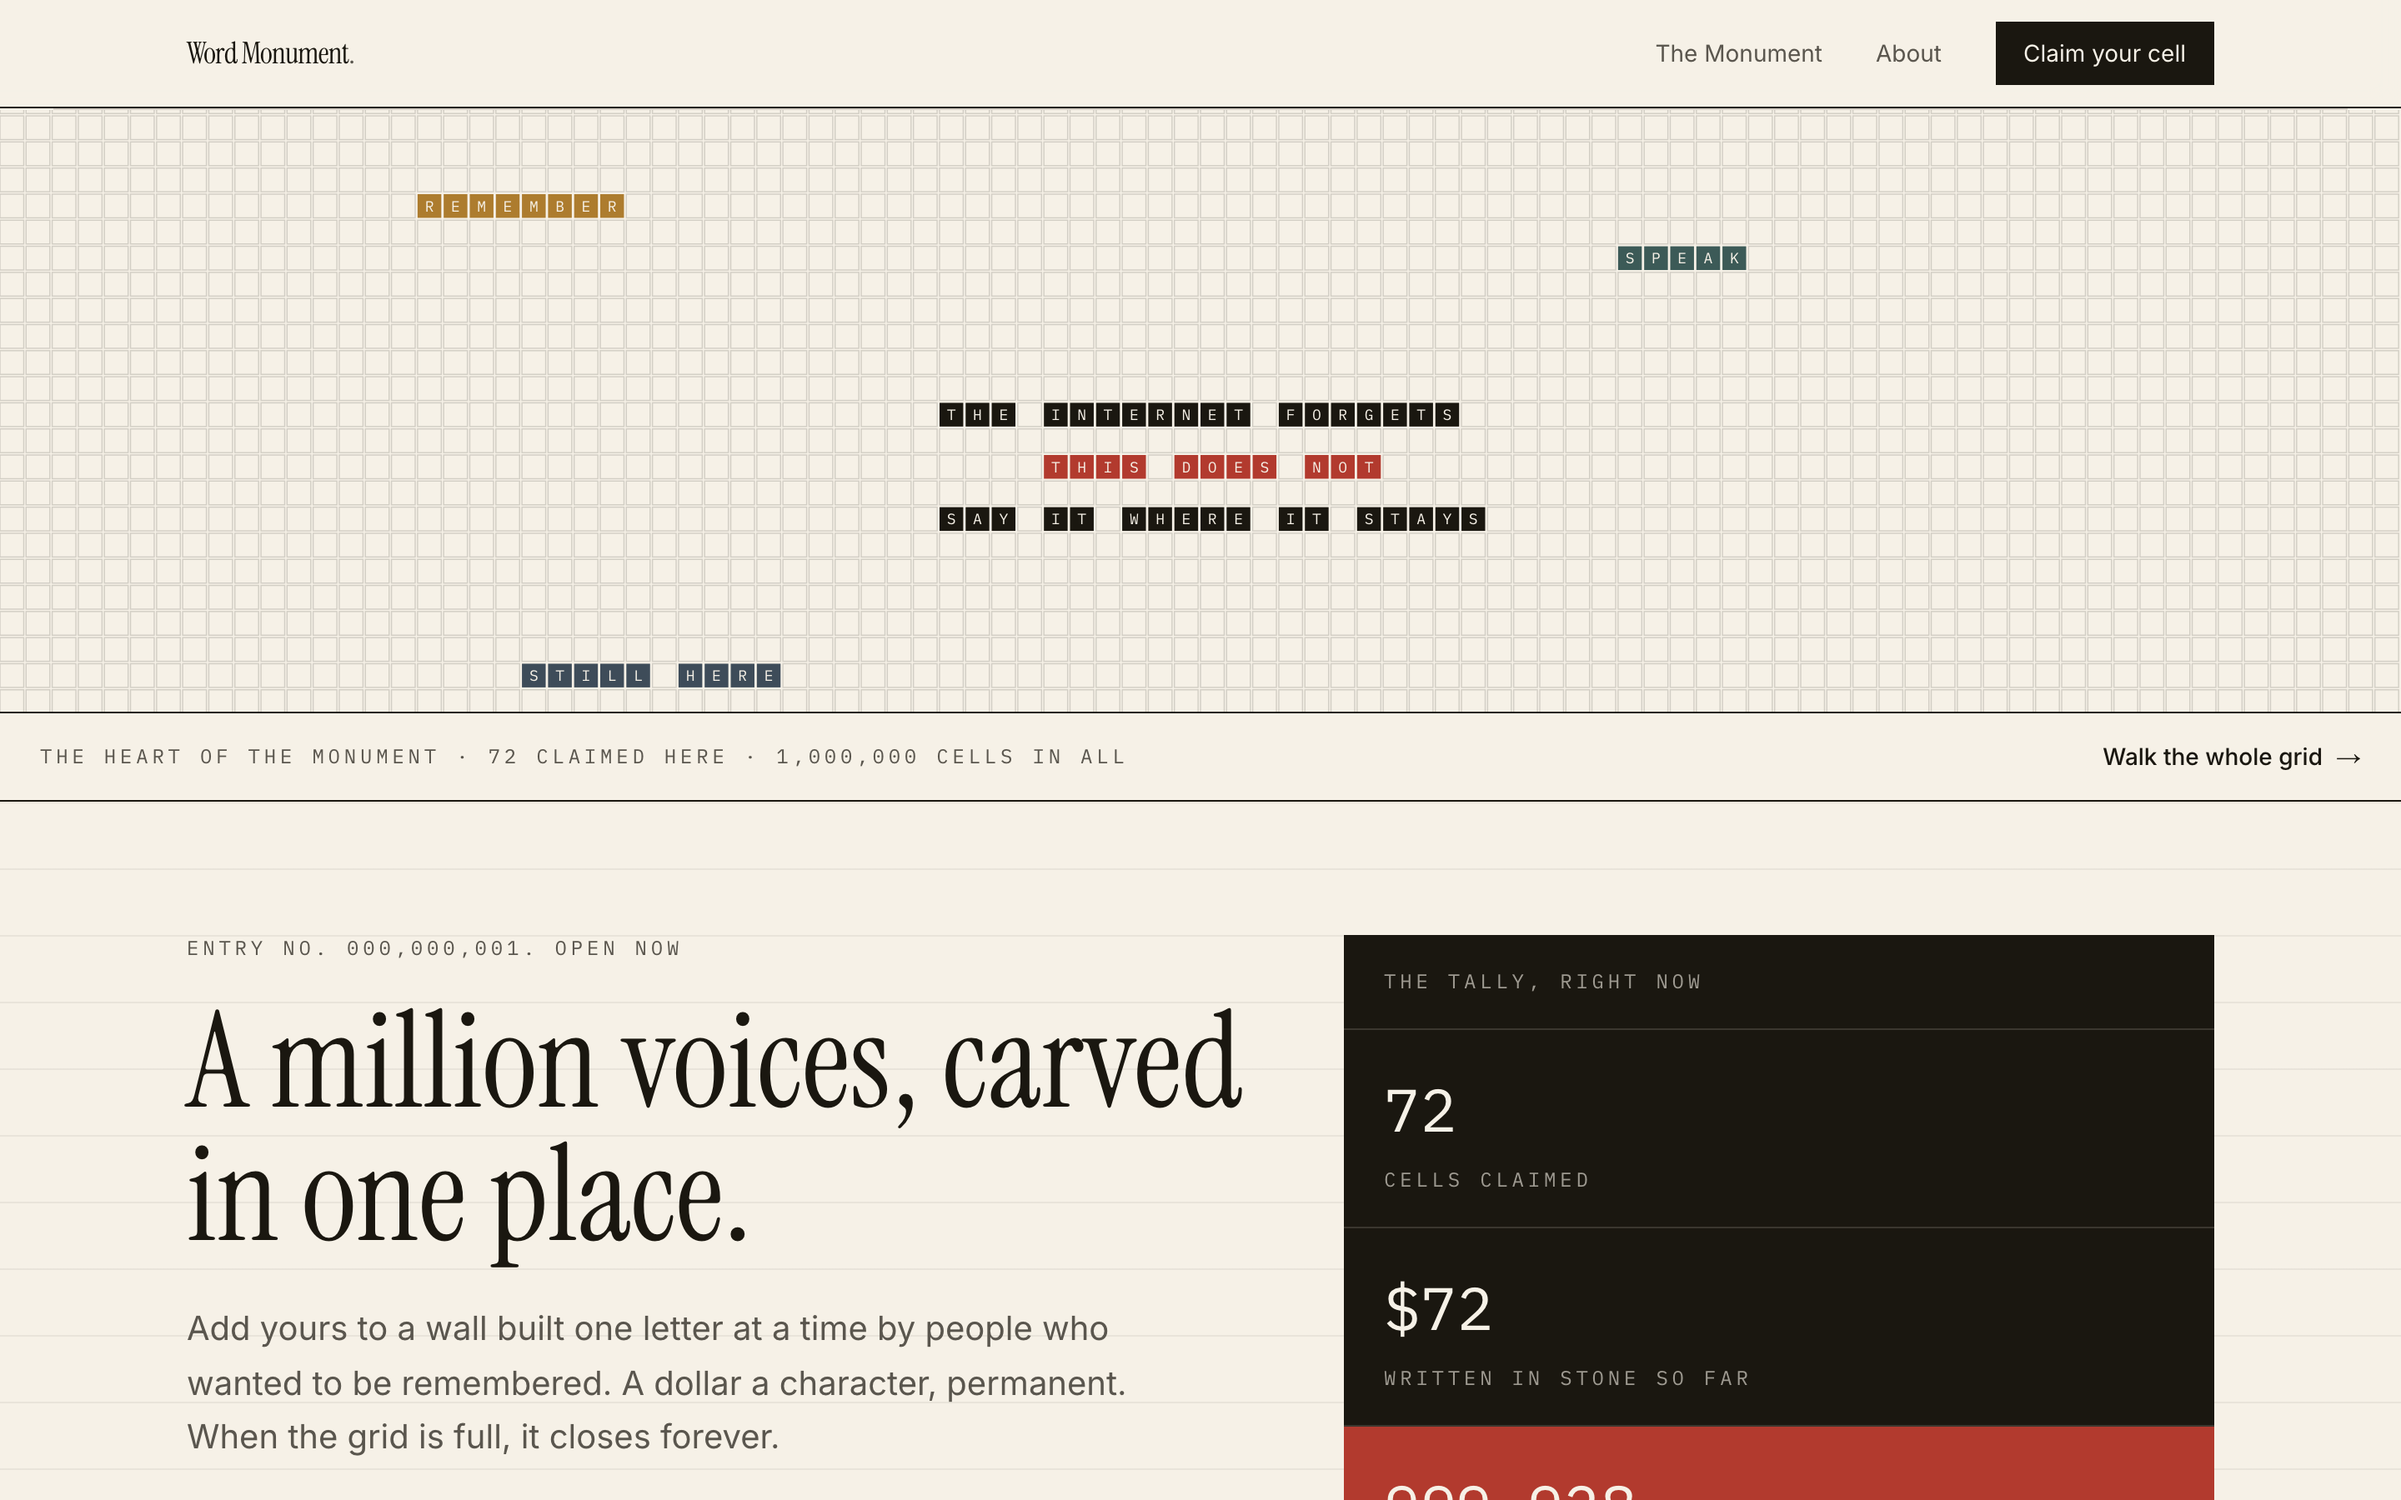
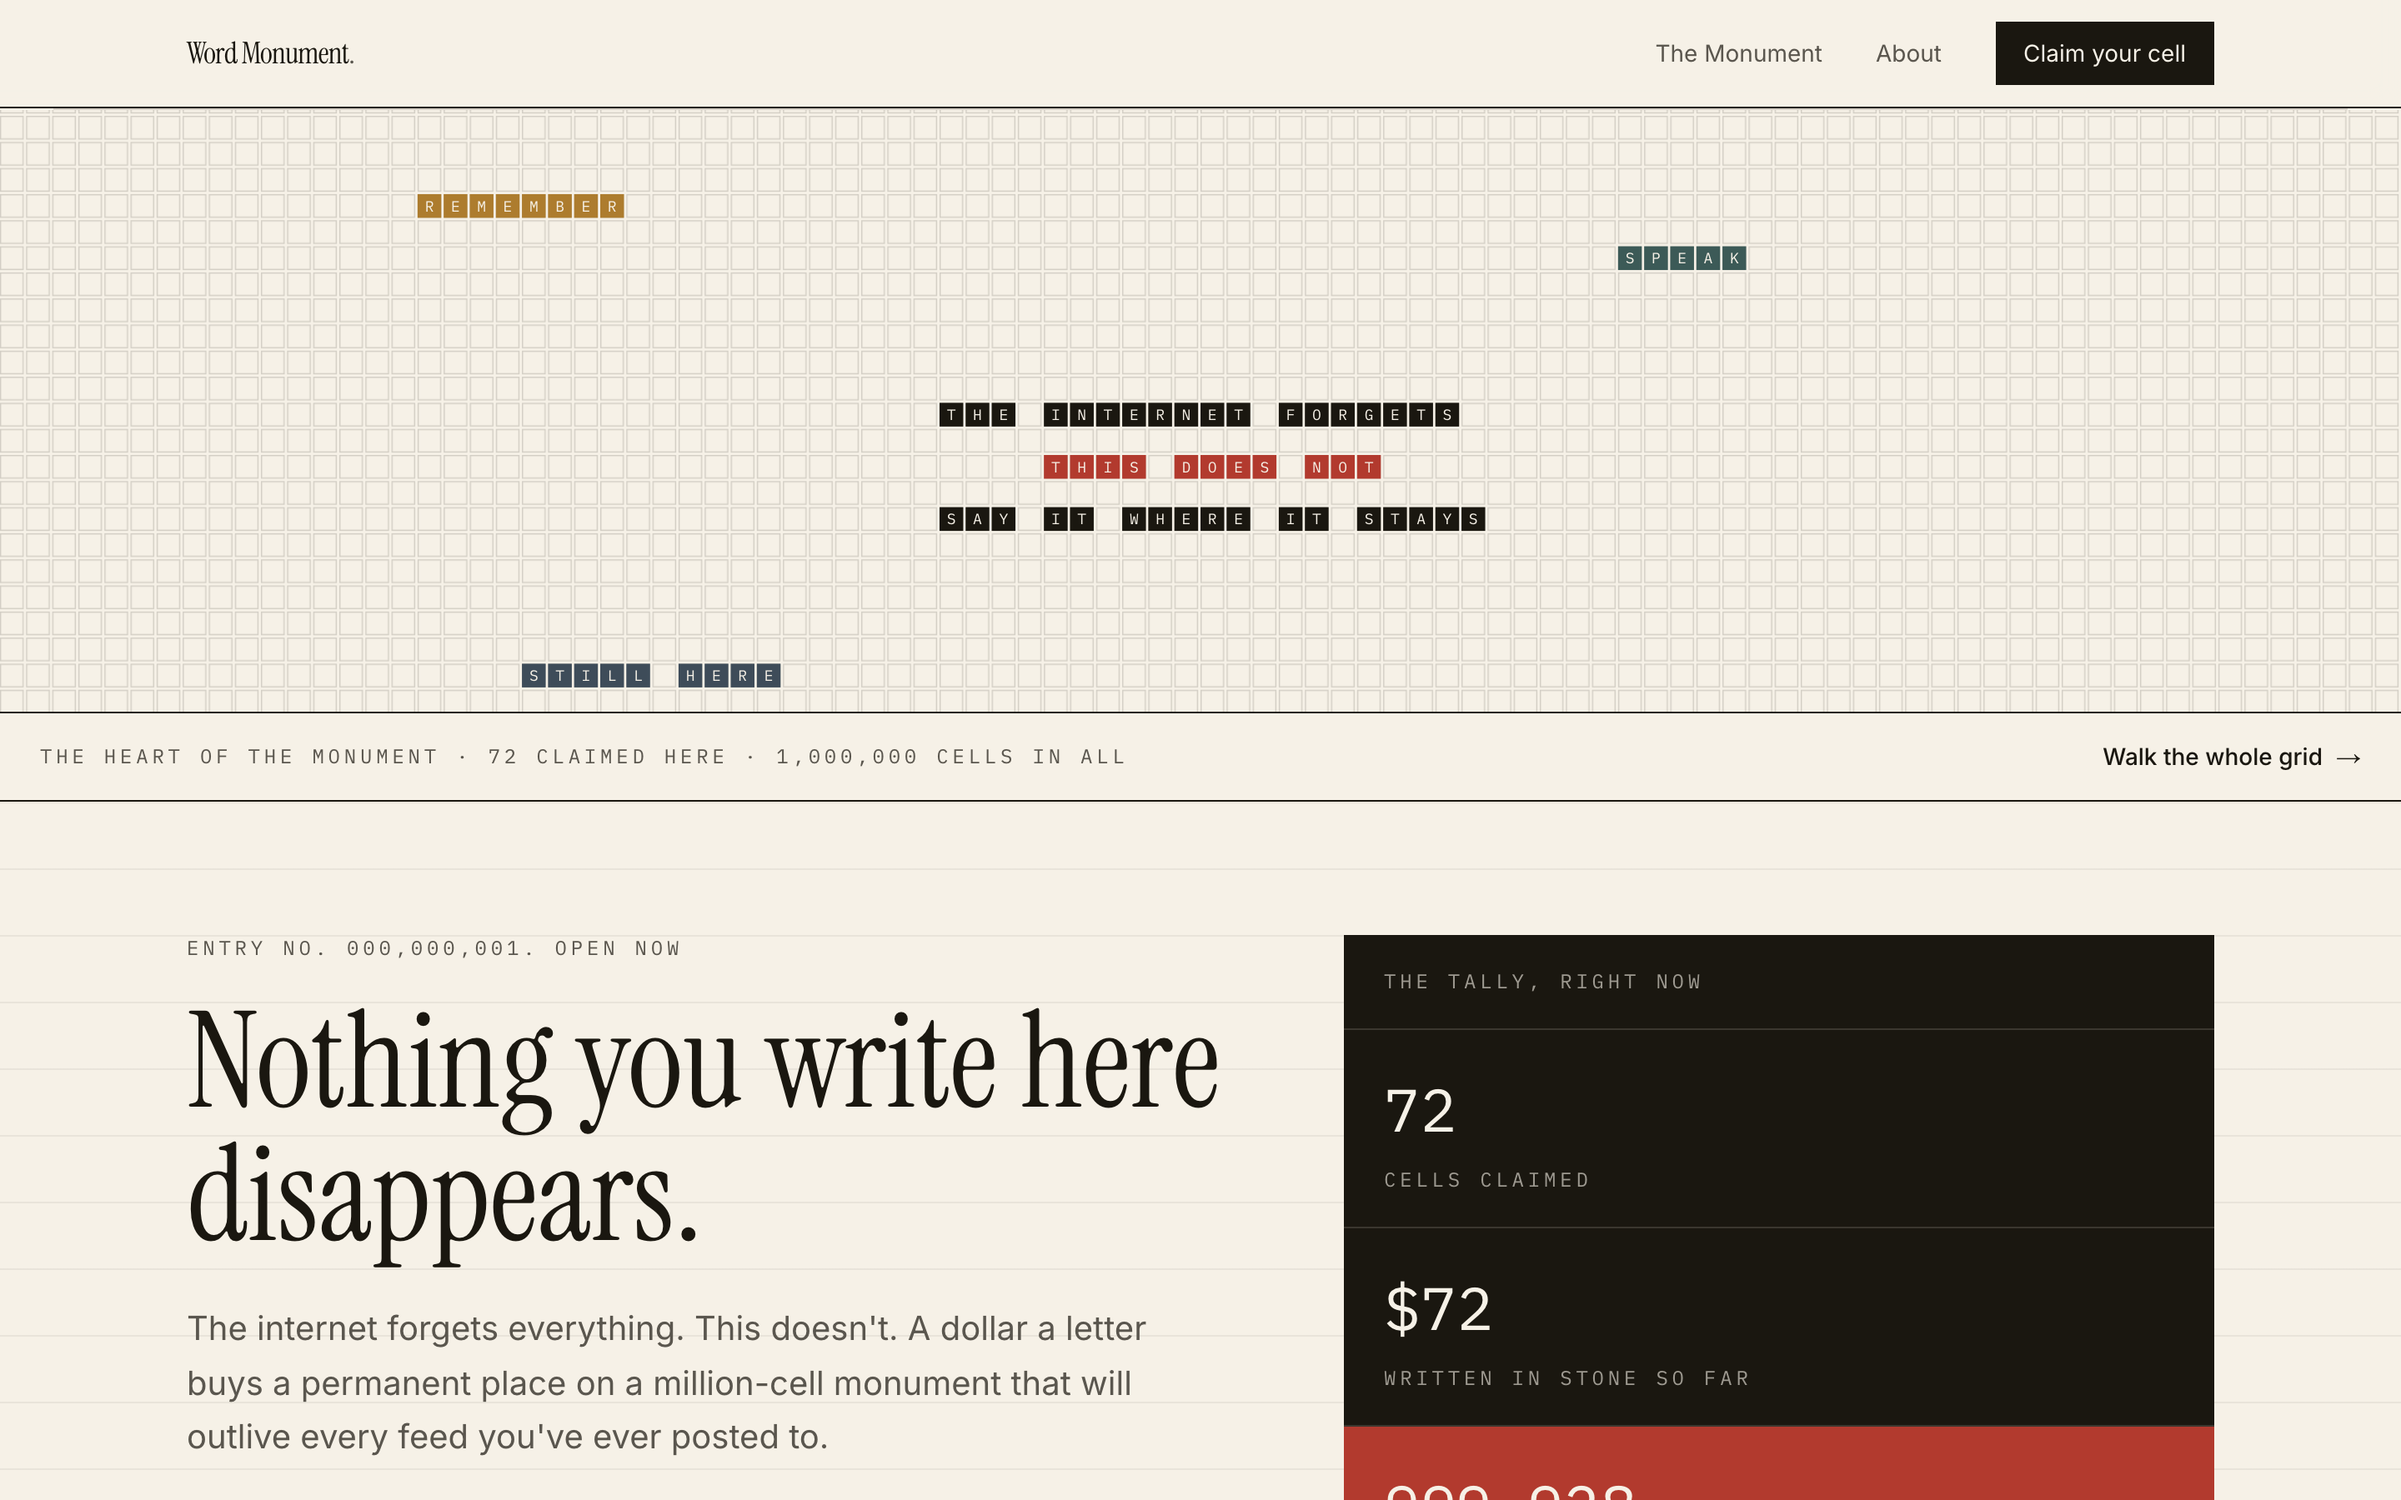
perf: draw the homepage preview grid with one pattern instead of 3,128 rects
The homepage was 965 KB of HTML. Measured against the live domain, a cold
request took 2.3 seconds to complete.

Almost all of that weight was empty squares. MonumentPreview framed a 92 by 34
window onto the middle of the grid and emitted an individual <rect> for every
cell in it, claimed or not, which is 3,128 elements serialized into the
document. Only 72 of those cells have anything in them. The rest existed purely
to draw a background that never changes.

The empty grid is now a single <pattern> tiled across the frame, and only
claimed cells get their own node, so the markup scales with how much of the
monument has been bought rather than with the size of the window onto it. The
patterned cell is inset by half its stroke width so its outline occupies
exactly the box an unstroked sold cell paints over, which keeps the rendering
pixel-identical and stops the stroke being clipped at the tile boundary.

965 KB to 81 KB, and 2.3s to 0.21s, verified on the live domain after deploy.
Confirmed visually unchanged: the founding inscription and the surrounding
words render exactly as before.

This matters more than a routine optimization because the homepage is what a
traffic spike hits first, and the entire launch plan is built around producing
one.

Changed region(s): [[0.0625, 0.6533, 0.5312, 0.84], [0.0625, 0.8711, 0.4688, 0.9644]]

diff --git a/src/components/monument/MonumentPreview.tsx b/src/components/monument/MonumentPreview.tsx
@@ -100,54 +100,59 @@ async function getPreviewSlice(): Promise<PreviewCell[]> {
 
 export default async function MonumentPreview() {
   const cells = await getPreviewSlice()
-  const byPosition = new Map(cells.map((cell) => [`${cell.x},${cell.y}`, cell]))
 
   const width = COLS * STEP
   const height = ROWS * STEP
 
-  const rects: React.ReactNode[] = []
-  for (let row = 0; row < ROWS; row++) {
-    for (let col = 0; col < COLS; col++) {
-      const ax = MIN_X + col
-      const ay = MIN_Y + row
-      const cell = byPosition.get(`${ax},${ay}`)
-      const sold = cell?.status === 'sold'
-      const px = col * STEP
-      const py = row * STEP
-      const bg = sold ? cell?.backgroundColor ?? INK : PARCHMENT
+  // Only claimed cells get their own SVG node. The empty grid behind them is a
+  // single tiled <pattern>.
+  //
+  // This used to emit one <rect> per cell across the whole 92x34 window, which
+  // is 3,128 elements, and it made the homepage document roughly a megabyte of
+  // markup before any of it was even visible. That is the page a traffic spike
+  // lands on first, and it was spending almost all of its weight drawing empty
+  // squares. The pattern renders identically for a fraction of the bytes, and
+  // the cost now scales with how much of the monument is actually claimed
+  // rather than with the size of the window onto it.
+  const nodes: React.ReactNode[] = []
+  let soldCount = 0
 
-      rects.push(
-        <rect
-          key={`${col}-${row}`}
-          x={px}
-          y={py}
-          width={CELL}
-          height={CELL}
-          fill={bg}
-          stroke={sold ? 'none' : GRIDLINE}
-          strokeWidth={0.75}
-        />,
+  for (const cell of cells) {
+    if (cell.status !== 'sold') continue
+
+    const col = cell.x - MIN_X
+    const row = cell.y - MIN_Y
+    // getPreviewSlice already queries this box, but demo data and a future
+    // change to the query are not obliged to respect it.
+    if (col < 0 || col >= COLS || row < 0 || row >= ROWS) continue
+
+    soldCount += 1
+
+    const px = col * STEP
+    const py = row * STEP
+    const bg = cell.backgroundColor ?? INK
+
+    // Opaque and unstroked, covering the patterned cell underneath exactly.
+    nodes.push(
+      <rect key={`${col}-${row}`} x={px} y={py} width={CELL} height={CELL} fill={bg} />,
+    )
+
+    if (cell.character) {
+      nodes.push(
+        <text
+          key={`${col}-${row}-char`}
+          x={px + CELL / 2}
+          y={py + CELL / 2 + 3.5}
+          textAnchor="middle"
+          fontSize={9.5}
+          fontFamily="var(--font-mono-grid, monospace)"
+          fill={contrastGlyphColor(bg)}
+        >
+          {cell.character.toUpperCase()}
+        </text>,
       )
-
-      if (sold && cell?.character) {
-        rects.push(
-          <text
-            key={`${col}-${row}-char`}
-            x={px + CELL / 2}
-            y={py + CELL / 2 + 3.5}
-            textAnchor="middle"
-            fontSize={9.5}
-            fontFamily="var(--font-mono-grid, monospace)"
-            fill={contrastGlyphColor(bg)}
-          >
-            {cell.character.toUpperCase()}
-          </text>,
-        )
-      }
     }
   }
-
-  const soldCount = cells.filter((cell) => cell.status === 'sold').length
 
   return (
     <section aria-label="Monument preview" className="border-b border-ink bg-parchment">
@@ -163,8 +168,31 @@ export default async function MonumentPreview() {
           aria-label="The heart of the monument, showing the founding inscription and nearby inscriptions. Select to explore the full grid."
           className="block h-[46vh] max-h-[560px] min-h-[280px] w-full transition-[filter] duration-300 group-hover:brightness-[0.97]"
         >
+          <defs>
+            {/* One tile, repeated by the renderer, in place of a rect per cell.
+                The cell is inset by half the stroke width so its outline lands
+                exactly on the 0..CELL box an unstroked sold cell paints over,
+                and so the stroke is not clipped at the edge of the tile. */}
+            <pattern
+              id="monument-preview-grid"
+              width={STEP}
+              height={STEP}
+              patternUnits="userSpaceOnUse"
+            >
+              <rect
+                x={0.375}
+                y={0.375}
+                width={CELL - 0.75}
+                height={CELL - 0.75}
+                fill={PARCHMENT}
+                stroke={GRIDLINE}
+                strokeWidth={0.75}
+              />
+            </pattern>
+          </defs>
           <rect x={0} y={0} width={width} height={height} fill={PARCHMENT} />
-          {rects}
+          <rect x={0} y={0} width={width} height={height} fill="url(#monument-preview-grid)" />
+          {nodes}
         </svg>
 
         <div className="pointer-events-none absolute inset-x-0 bottom-0 flex flex-col gap-2 border-t border-ink bg-parchment px-4 py-4 sm:flex-row sm:items-center sm:justify-between sm:px-6">
